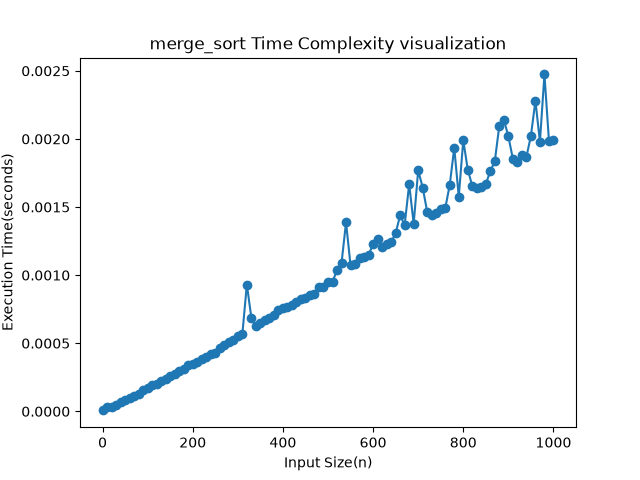
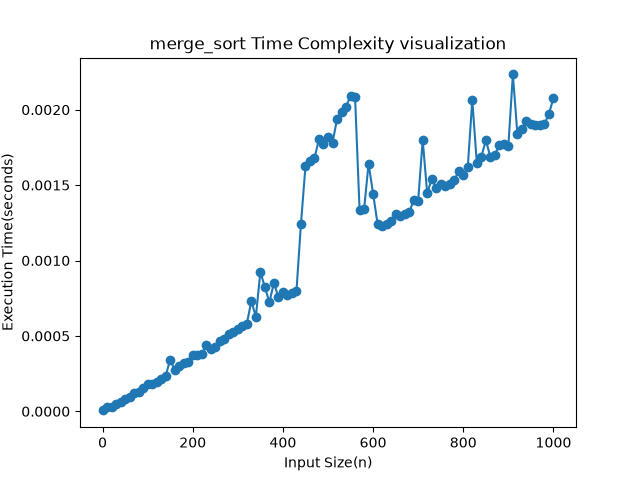
Add benchmarking functions for Stack and Queue operations with corresponding images

diff --git a/algo_test.py b/algo_test.py
@@ -7,6 +7,8 @@ import matplotlib.pyplot as plt
 from flask import Flask, request, jsonify
 import base64
 from io import BytesIO
+from data_structures.stack import Stack
+from data_structures.queue import Queue
 
 def time_complexity_visualizer(algorithm, algorithm_name, n_min, n_max, n_step):
     times = []
@@ -175,6 +177,55 @@ def merge_sort(n):
 #         for inner_index in range(arr):
 
 
+def benchmark_stack_push(n):
+    stack = Stack()
+    start_time = time.time()
+
+    for i in range(n):
+        stack.push(i)
+
+    end_time = time.time()
+    return end_time - start_time
+
+def benchmark_stack_pop(n):
+    stack = Stack()
+
+    for i in range(n):
+        stack.push(i)
+
+    start_time = time.time()
+
+    for i in range(n):
+        stack.pop()
+
+    end_time = time.time()
+    return end_time - start_time
+
+def benchmark_queue_enqueue(n):
+    queue = Queue()
+
+    start_time = time.time()
+
+    for i in range(n):
+        queue.enqueue(i)
+
+    end_time = time.time()
+    return end_time - start_time
+
+def benchmark_queue_dequeue(n):
+    queue = Queue()
+
+    for i in range(n):
+        queue.enqueue(i)
+
+    start_time = time.time()
+
+    for i in range(n):
+        queue.dequeue()
+
+    end_time = time.time()
+    return end_time - start_time
+
 
 Algorithm = {
     'linear_search': linear_search,
@@ -182,7 +233,11 @@ Algorithm = {
     'unique_users': unique_users,
     'bubble_sort': bubble_sort,
     'insertion_sort': insertion_sort,
-    'merge_sort': merge_sort
+    'merge_sort': merge_sort,
+    'stack_push': benchmark_stack_push,
+    'stack_pop': benchmark_stack_pop,
+    'queue_enqueue': benchmark_queue_enqueue,
+    'queue_dequeue': benchmark_queue_dequeue
 }
 
 app = Flask(__name__)
@@ -208,6 +263,8 @@ def analyze():
         'n_max': n_max,
         'base64img': base64img
     })
+
+
 
 # time_complexity_visualizer(unique_users, 10, 1000, 10)
 # time_complexity_visualizer(binary_search, 10, 10000, 10)
